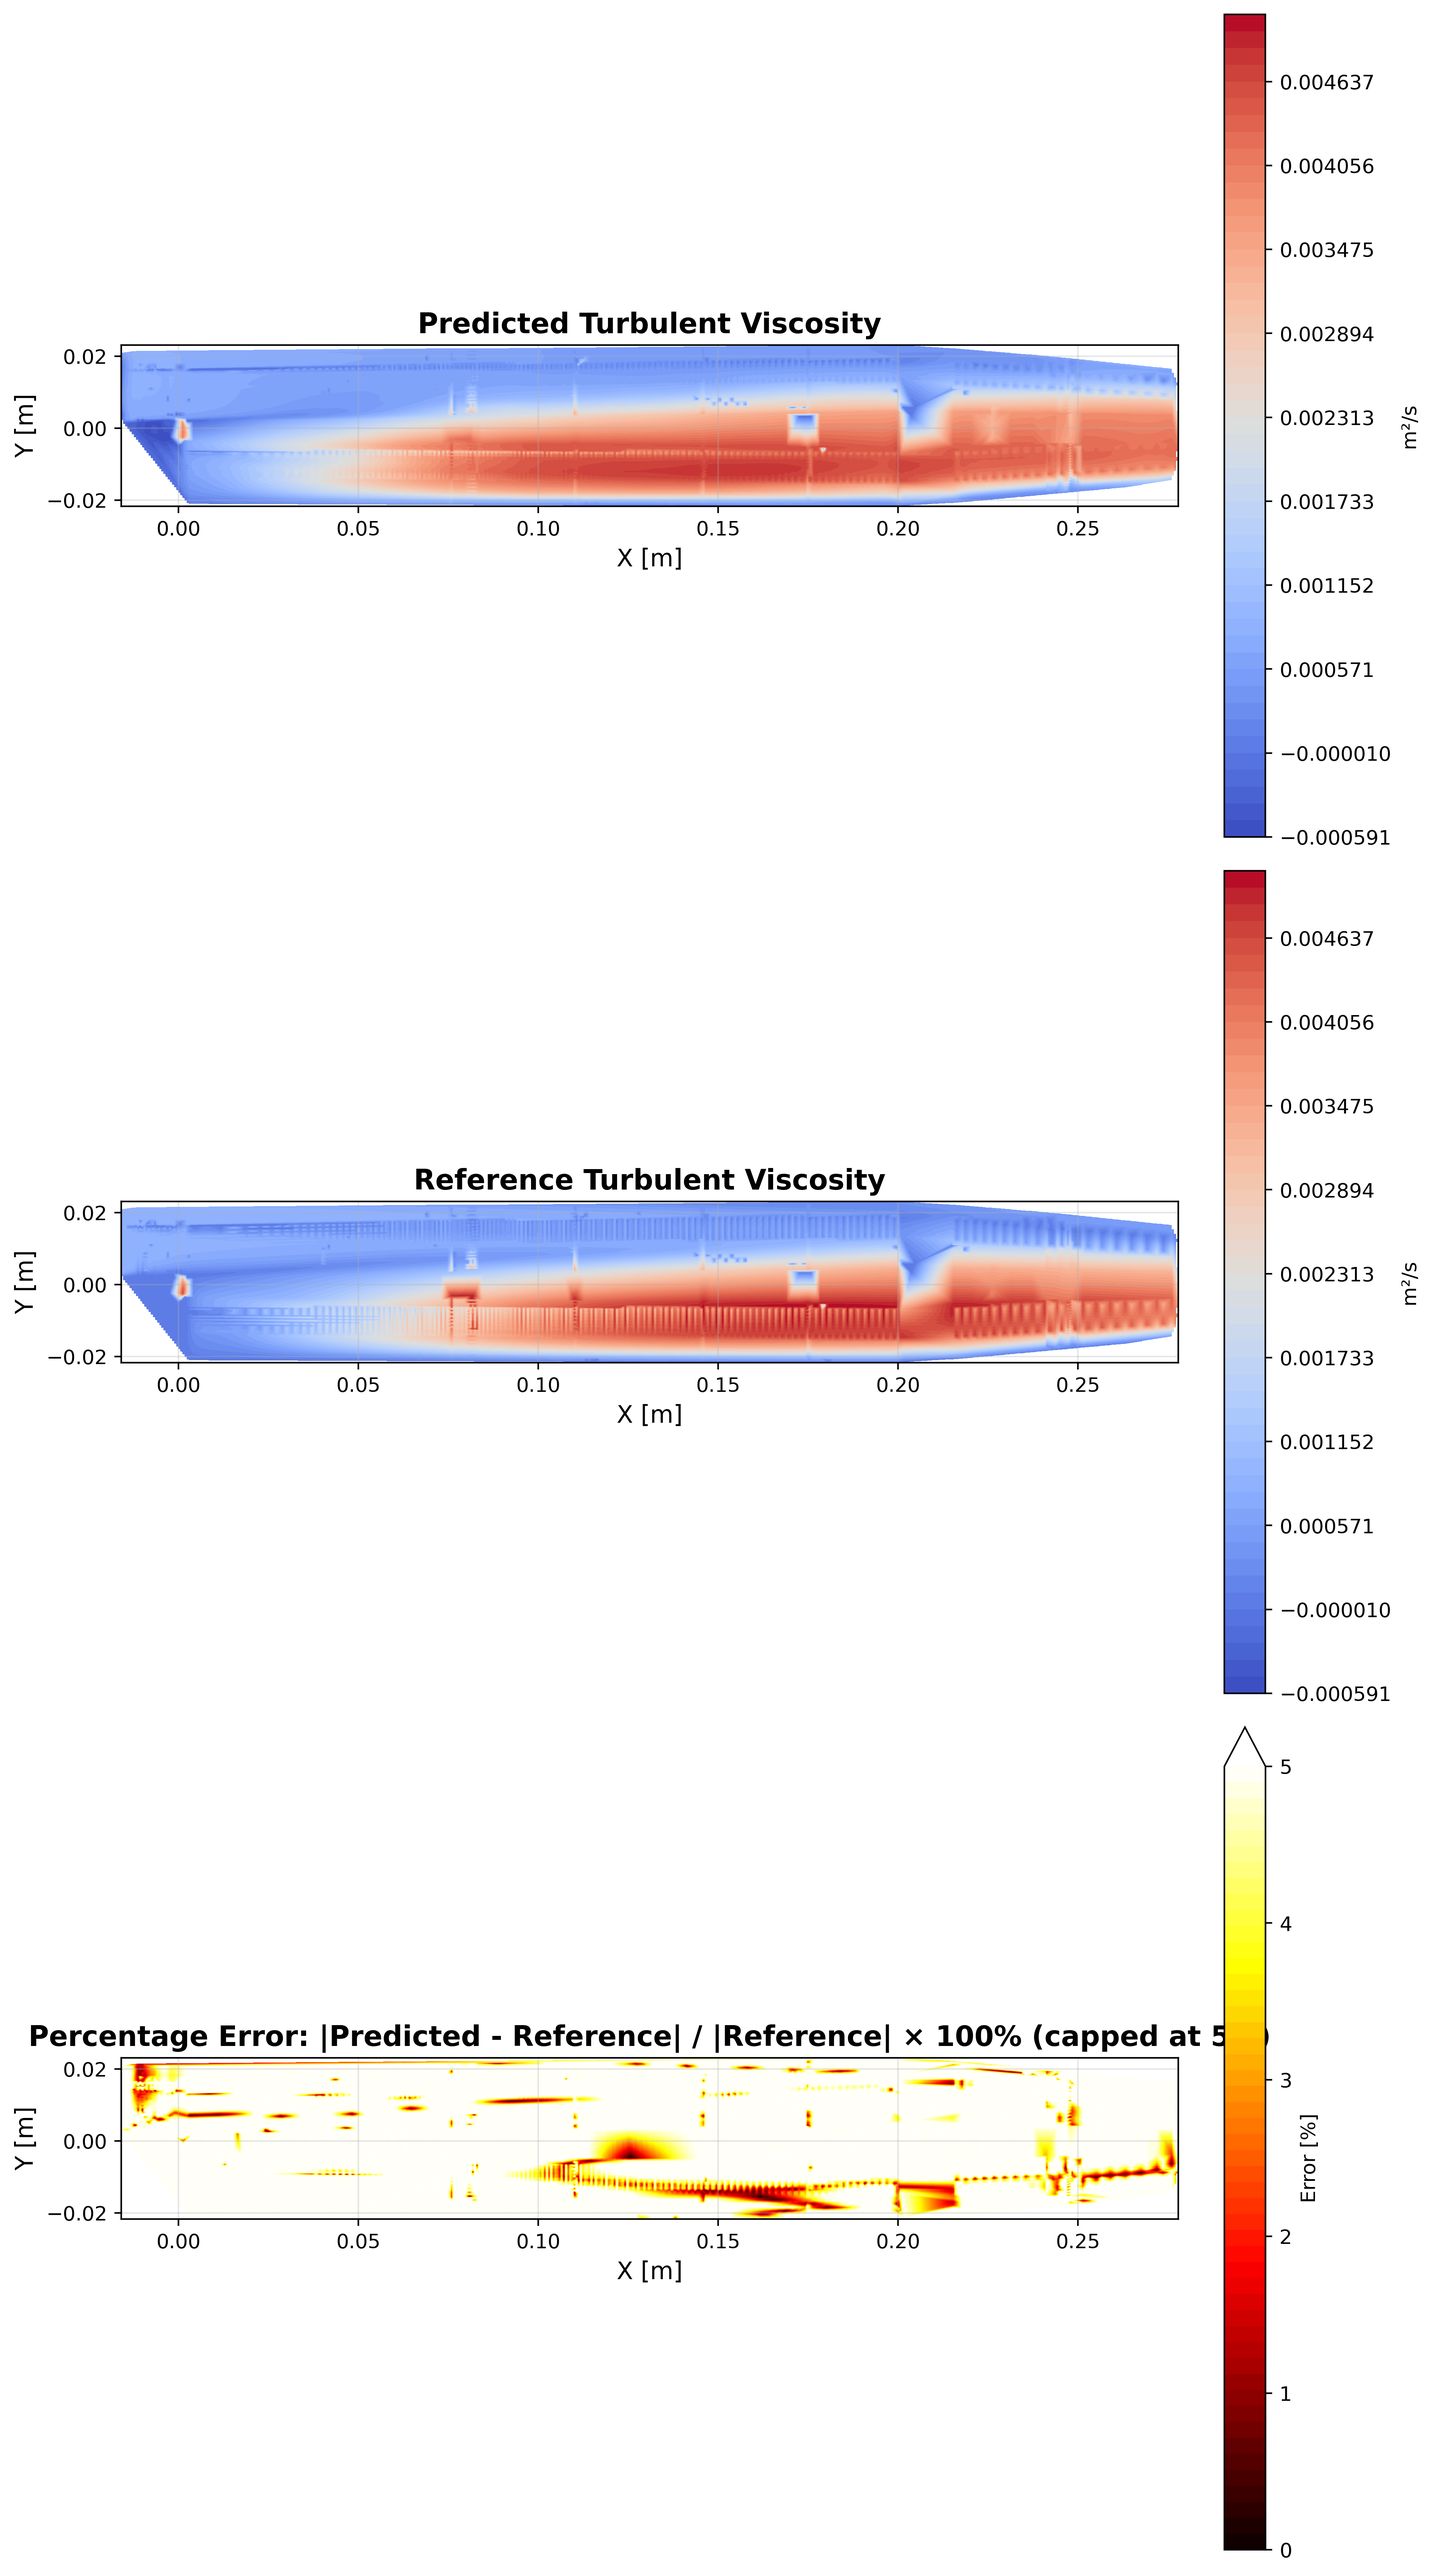
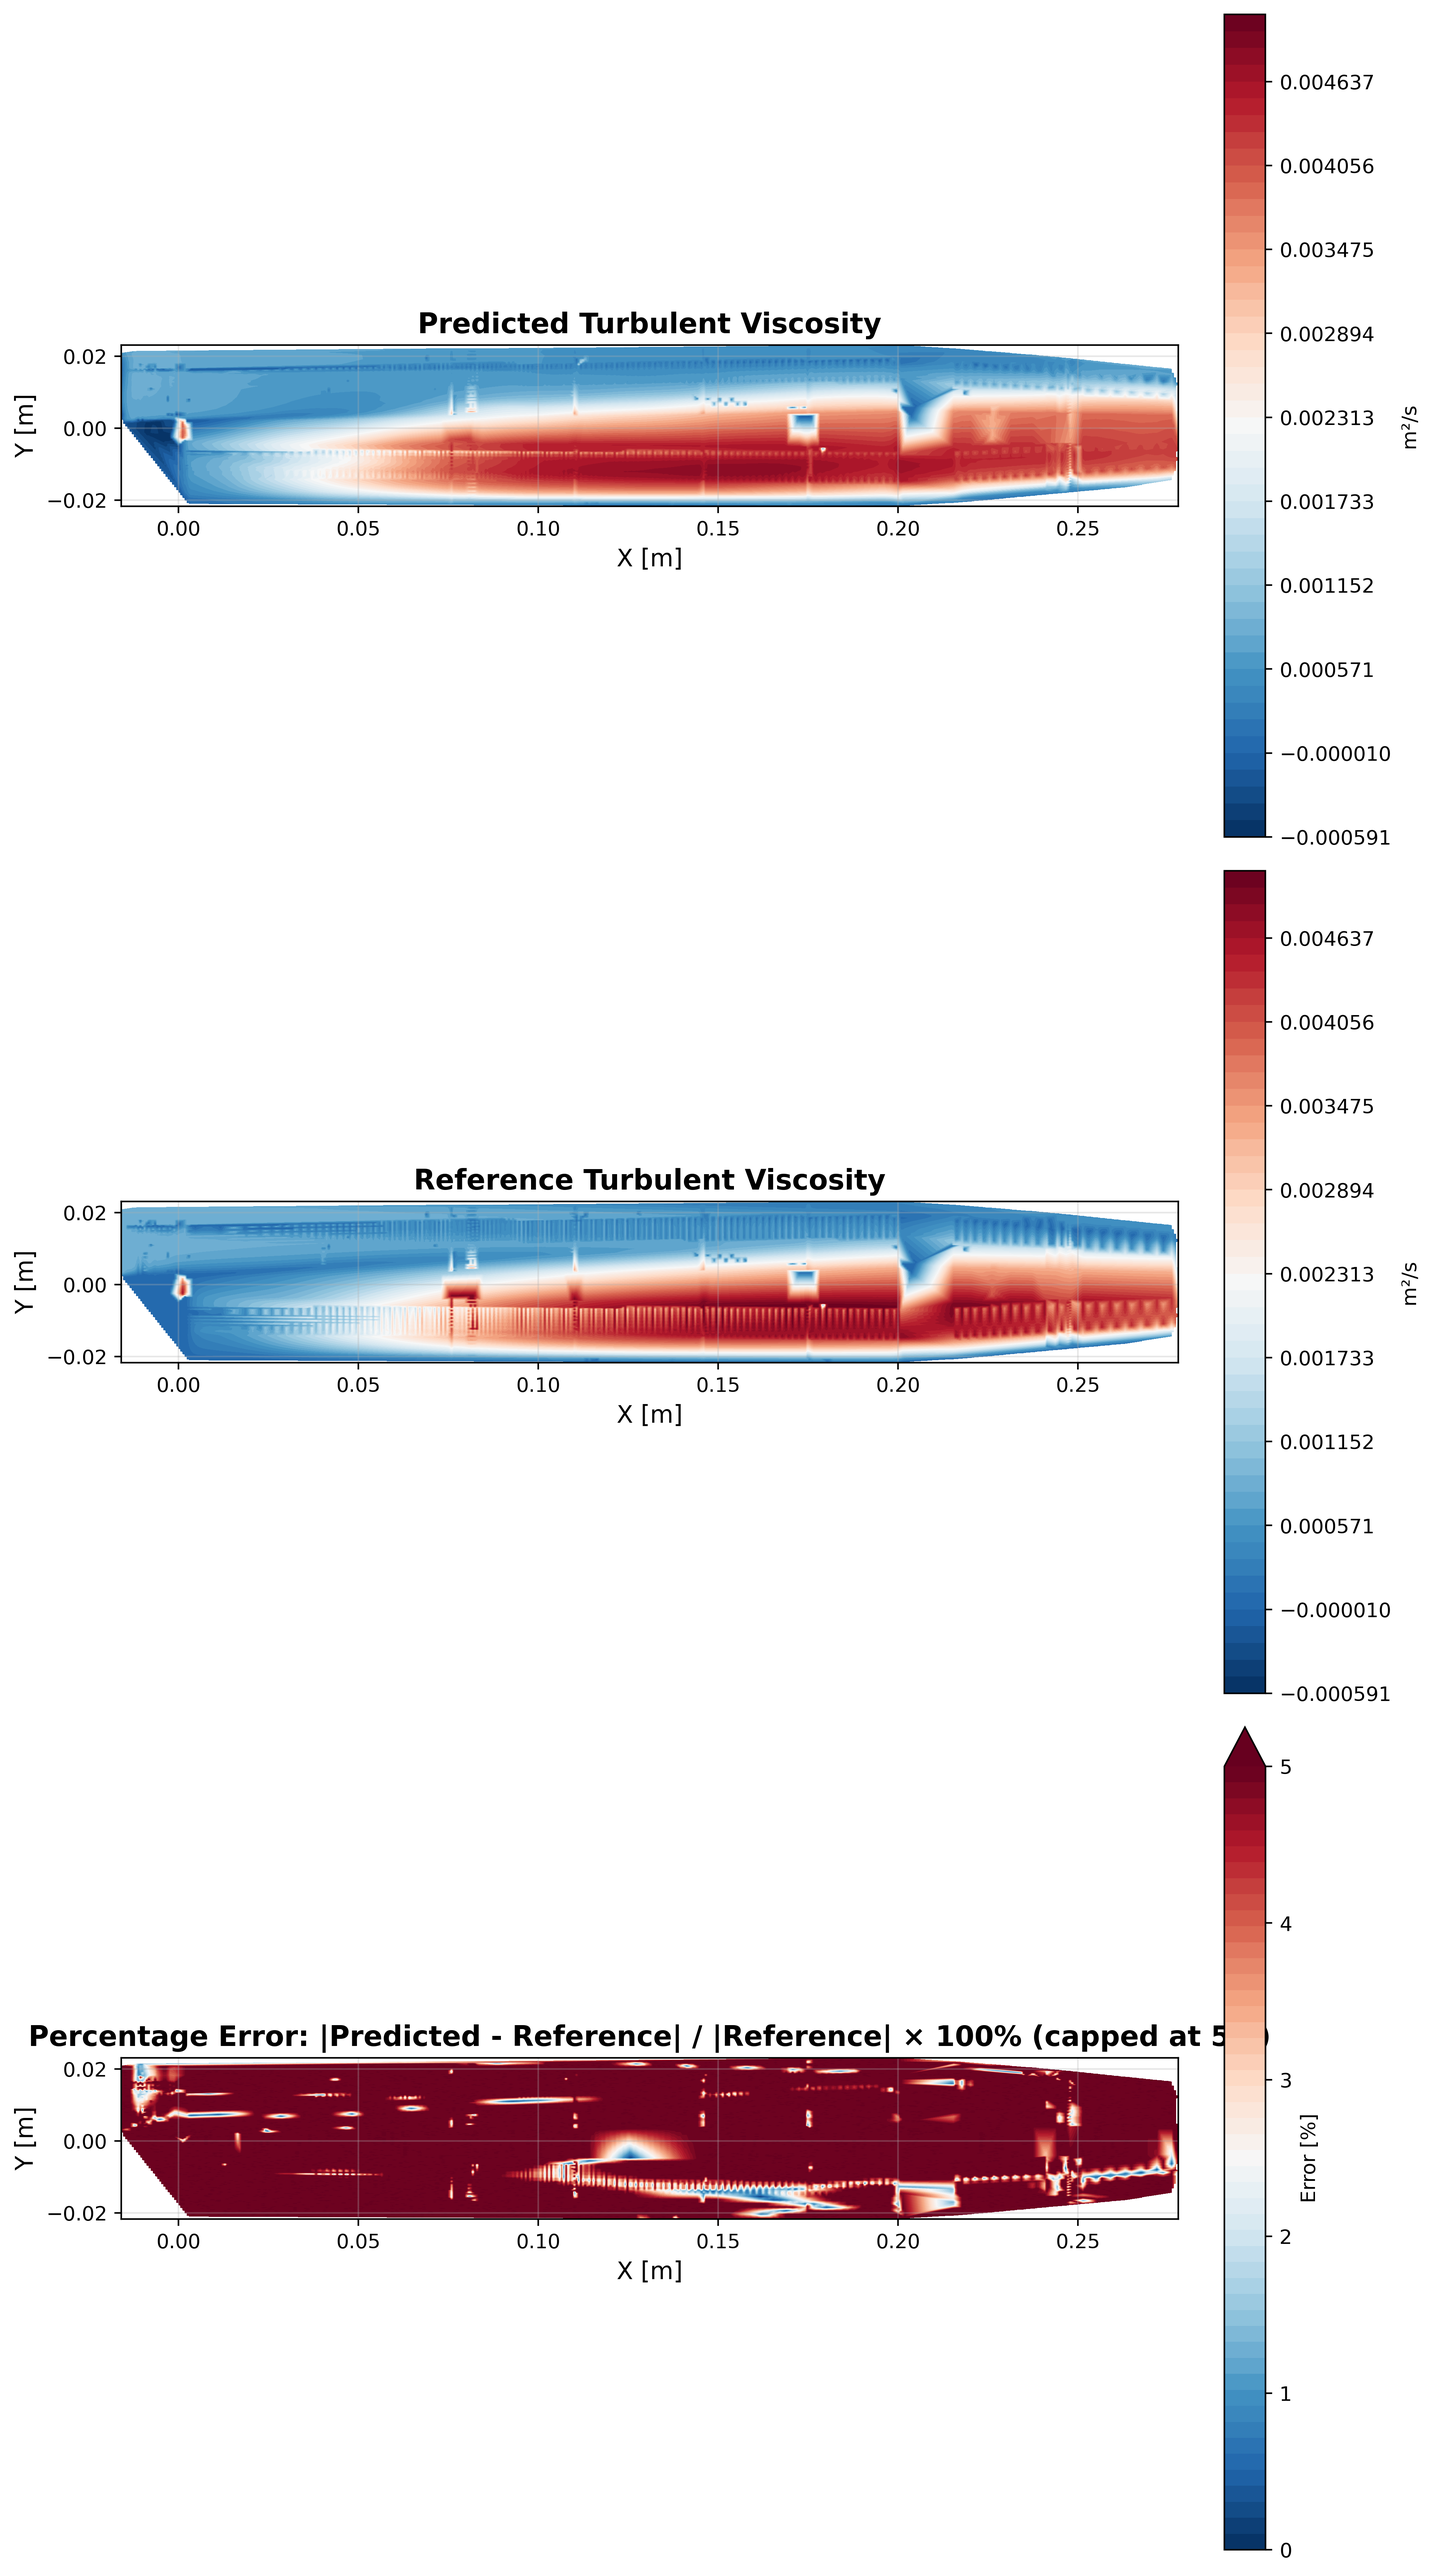
rainbow plot

diff --git a/visualize.py b/visualize.py
@@ -165,13 +165,13 @@ def compare_fields(predicted_fields, reference_fields, cell_centers, output_dir)
     output_dir = Path(output_dir)
     output_dir.mkdir(parents=True, exist_ok=True)
     
-    # Field names and their properties
+    # Field names and their properties - all using diverging blue-white-red colormap
     field_configs = {
-        'U': {'name': 'Velocity Magnitude', 'cmap': 'plasma', 'unit': 'm/s'},
+        'U': {'name': 'Velocity Magnitude', 'cmap': 'RdBu_r', 'unit': 'm/s'},
         'p': {'name': 'Pressure', 'cmap': 'RdBu_r', 'unit': 'm²/s²'},
-        'k': {'name': 'Turbulent Kinetic Energy', 'cmap': 'viridis', 'unit': 'm²/s²'},
-        'epsilon': {'name': 'Dissipation Rate', 'cmap': 'hot', 'unit': 'm²/s³'},
-        'nut': {'name': 'Turbulent Viscosity', 'cmap': 'coolwarm', 'unit': 'm²/s'},
+        'k': {'name': 'Turbulent Kinetic Energy', 'cmap': 'RdBu_r', 'unit': 'm²/s²'},
+        'epsilon': {'name': 'Dissipation Rate', 'cmap': 'RdBu_r', 'unit': 'm²/s³'},
+        'nut': {'name': 'Turbulent Viscosity', 'cmap': 'RdBu_r', 'unit': 'm²/s'},
     }
     
     for field_name in ['U', 'p', 'k', 'epsilon', 'nut']:
@@ -271,7 +271,7 @@ def compare_fields(predicted_fields, reference_fields, cell_centers, output_dir)
         # Error - bottom (percentage error, capped at 5%)
         error_levels = np.linspace(0, 5.0, 50)  # Fixed range 0-5%
         im3 = axes[2].contourf(Xi, Yi, Zi_err, levels=error_levels, vmin=0, vmax=5.0, 
-                               cmap='hot', extend='max')  # Show arrow for values > 5%
+                               cmap='RdBu_r', extend='max')  # Show arrow for values > 5%
         axes[2].set_title(f'Percentage Error: |Predicted - Reference| / |Reference| × 100% (capped at 5%)', 
                          fontsize=14, fontweight='bold')
         axes[2].set_xlabel('X [m]', fontsize=12)
